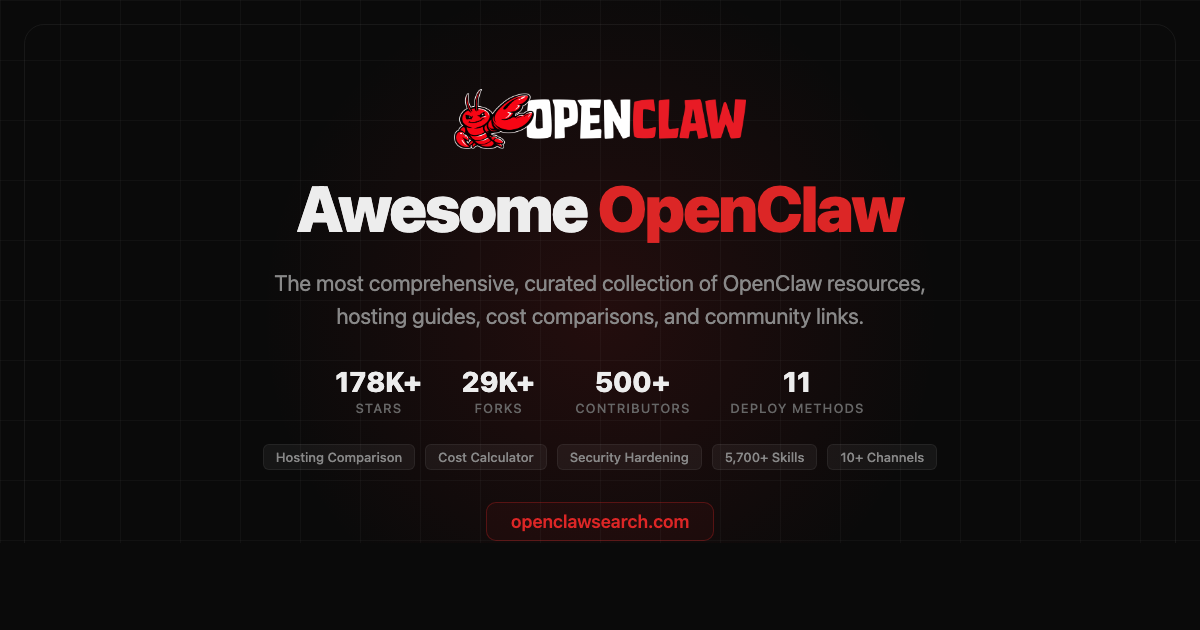
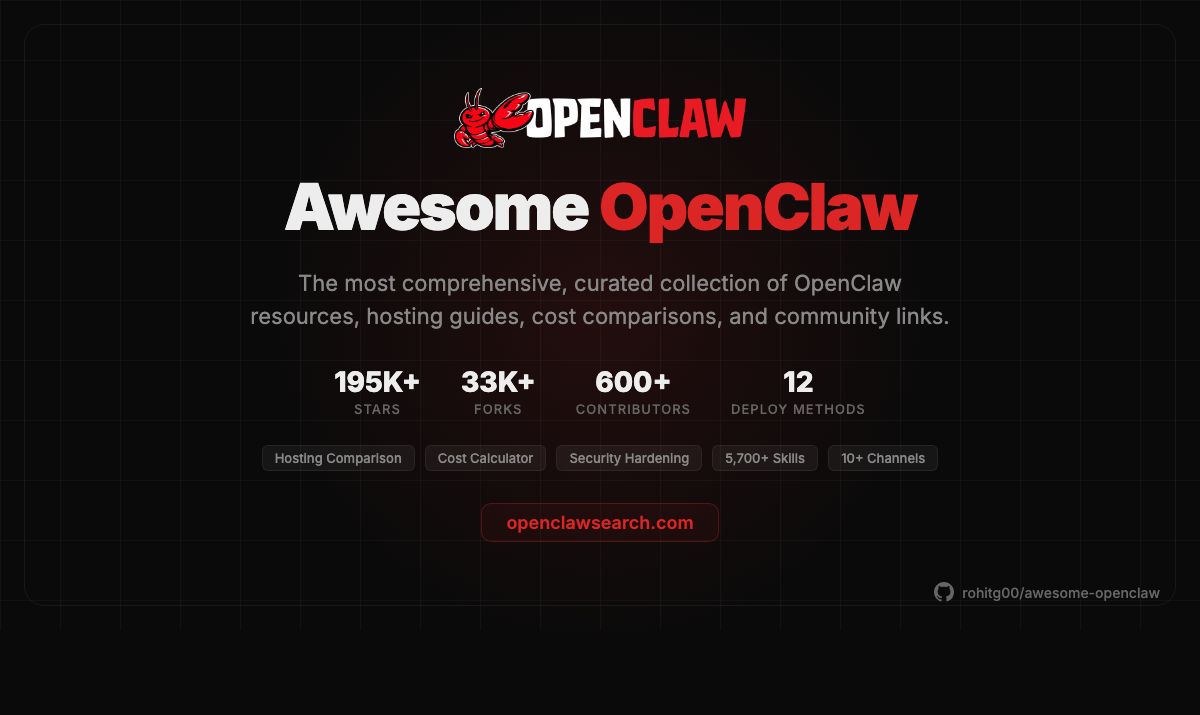
feat: update OG image and README with latest repo stats
Stars 178K→195K+, forks 29K→33K+, contributors 500→600+, deploy methods 11→12.
Regenerated og-image.png from updated HTML source.

diff --git a/docs/public/og-image.html b/docs/public/og-image.html
@@ -35,10 +35,10 @@ body{width:1200px;height:630px;background:#0A0A0A;font-family:'Inter',system-ui,
 <div class="title">Awesome <span class="highlight">OpenClaw</span></div>
 <div class="subtitle">The most comprehensive, curated collection of OpenClaw resources, hosting guides, cost comparisons, and community links.</div>
 <div class="stats">
-<div class="stat"><div class="stat-value">178K+</div><div class="stat-label">Stars</div></div>
-<div class="stat"><div class="stat-value">29K+</div><div class="stat-label">Forks</div></div>
-<div class="stat"><div class="stat-value">500+</div><div class="stat-label">Contributors</div></div>
-<div class="stat"><div class="stat-value">11</div><div class="stat-label">Deploy Methods</div></div>
+<div class="stat"><div class="stat-value">195K+</div><div class="stat-label">Stars</div></div>
+<div class="stat"><div class="stat-value">33K+</div><div class="stat-label">Forks</div></div>
+<div class="stat"><div class="stat-value">600+</div><div class="stat-label">Contributors</div></div>
+<div class="stat"><div class="stat-value">12</div><div class="stat-label">Deploy Methods</div></div>
 </div>
 <div class="tags">
 <div class="tag">Hosting Comparison</div>

diff --git a/README.md b/README.md
@@ -21,7 +21,7 @@
   <a href="https://github.com/openclaw/openclaw/releases"><img src="https://img.shields.io/github/v/release/openclaw/openclaw?include_prereleases&label=Release&color=orange" alt="Release"></a>
   <a href="https://discord.gg/openclaw"><img src="https://img.shields.io/discord/1456350064065904867?label=Discord&logo=discord&logoColor=white&color=5865F2" alt="Discord"></a>
   <br>
-  <em>Fastest-growing GitHub repo ever — 9K to 179K stars in 60 days (18x faster than Kubernetes)</em>
+  <em>Fastest-growing GitHub repo ever — 9K to 195K stars in 66 days (18x faster than Kubernetes)</em>
 </p>
 
 <p align="center">
